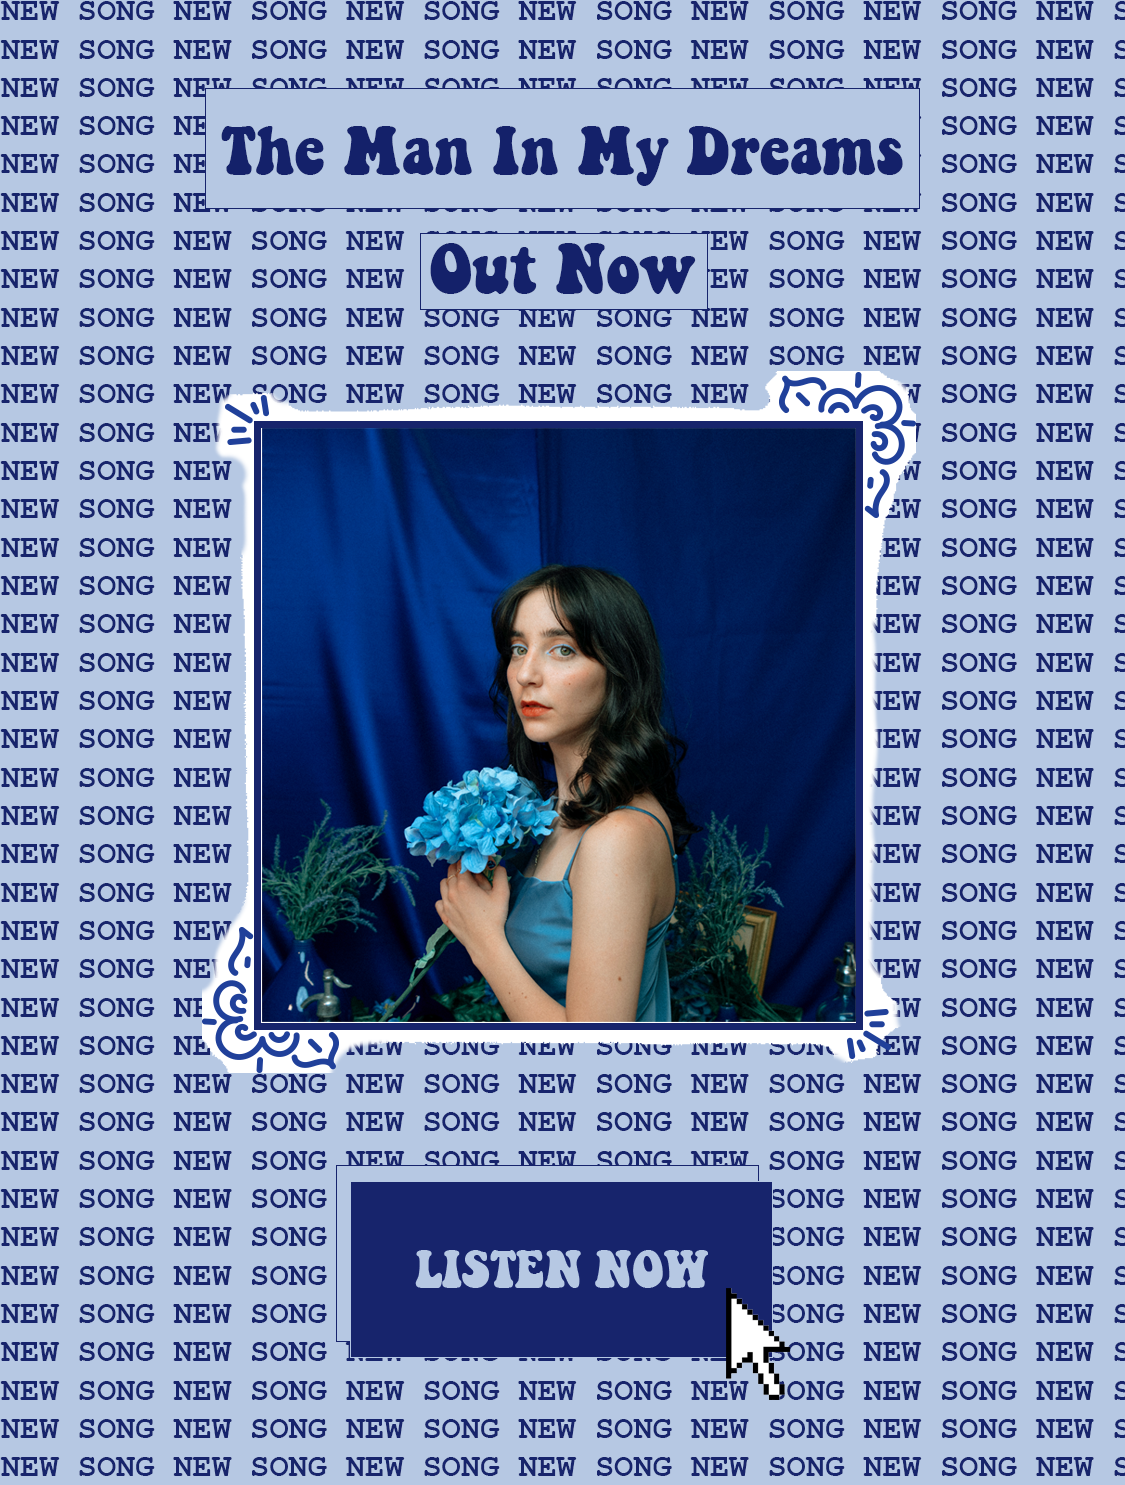
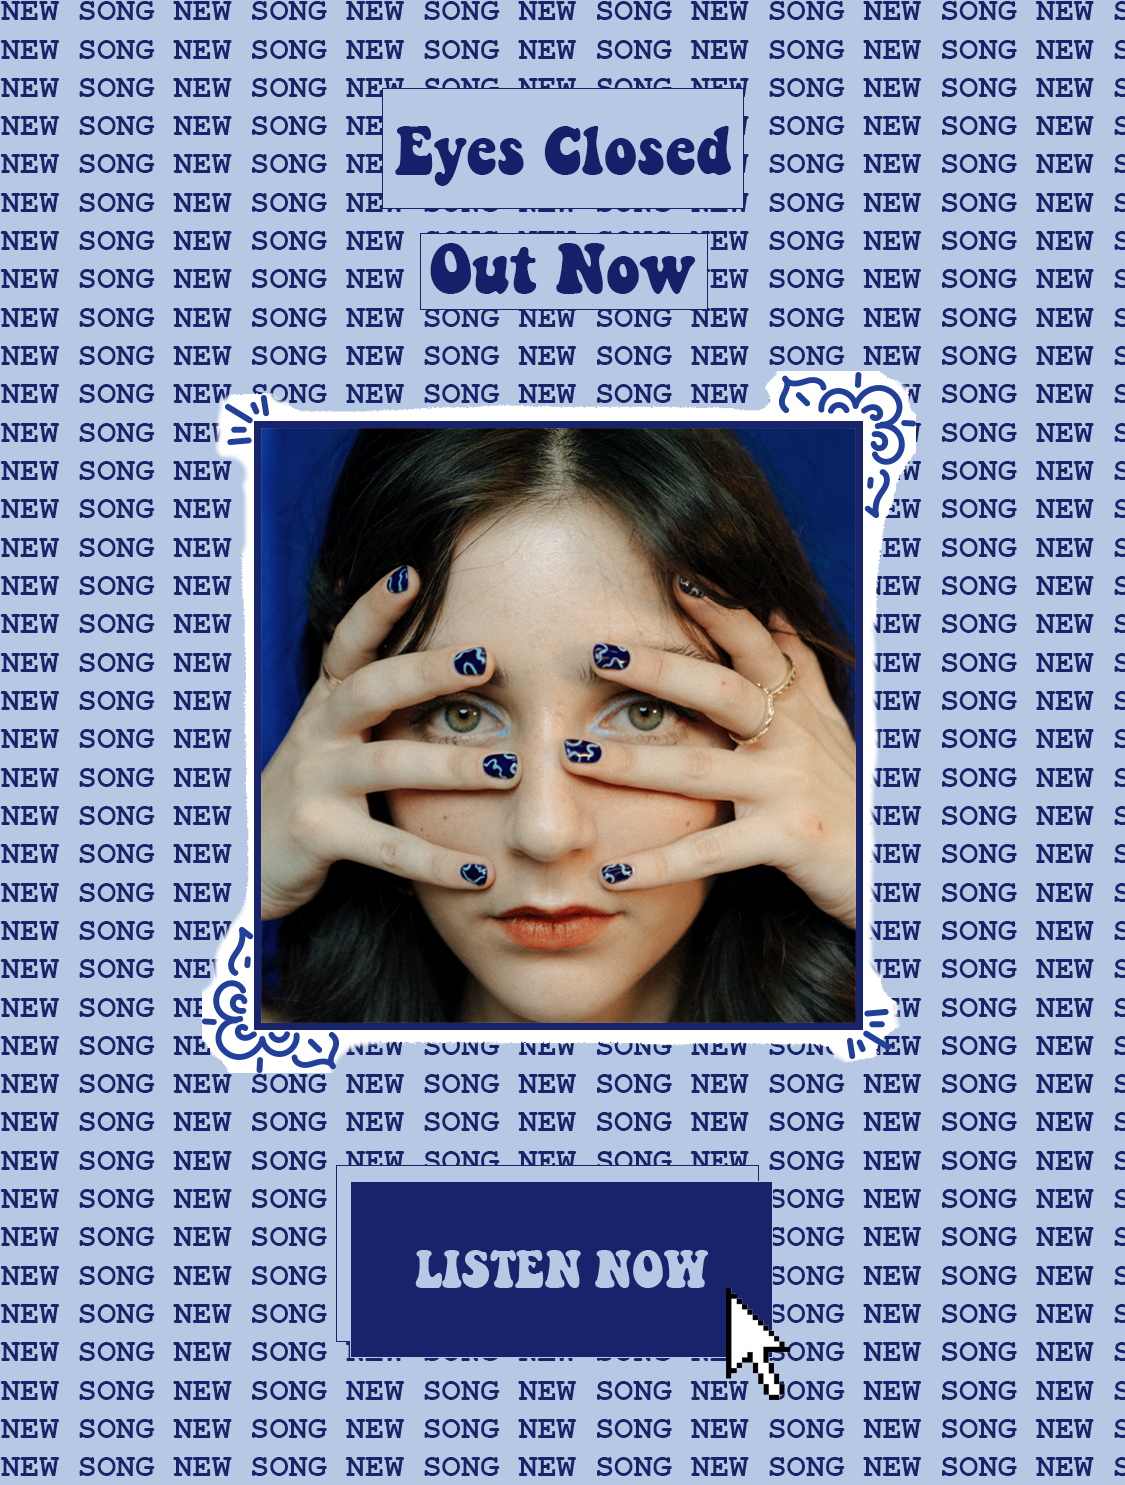
news!

Changed region(s): [[0.2178, 0.2788, 0.7778, 0.7125], [0.1867, 0.062, 0.84, 0.1549], [0.2178, 0.2788, 0.2489, 0.3098]]

diff --git a/src/home/Home.js b/src/home/Home.js
@@ -36,14 +36,14 @@ export default class Home extends Component {
 			<HomeWrap>
 				<HomeTop>
 					<MailingList onClick={this.openModal}>JOIN MY MAILING LIST</MailingList>
-					<Link to="/guess" style={{textDecoration: "none"}}>
+					{/* <Link to="/guess" style={{textDecoration: "none"}}>
 						<MailingList>GUESS ALBUM NAME</MailingList>
-					</Link>
+					</Link> */}
 				</HomeTop>
 				<HomeMiddle>
 					<LettersWrap>
 						<Modal onClose={this.openModal} show={this.state.modal}></Modal>
-						{(this.state.game === true && localStorage.getItem('played') === null) && 
+						{/* {(this.state.game === true && localStorage.getItem('played') === null) && 
 						<GameModalWrap onClick={this.playGame}>
 							<GameModal>
 								<h1>Let's play a game...</h1>
@@ -55,7 +55,7 @@ export default class Home extends Component {
 								</Link>
 								<No onClick={this.playGame}>No, I hate games. Take me to the site.</No>
 							</GameModal>
-						</GameModalWrap>}
+						</GameModalWrap>} */}
 						<Link to="/dates" style={{ textDecoration: 'none' }}>
 							<Letters src={D} alt="D" />
 						</Link>

diff --git a/src/news/News.js b/src/news/News.js
@@ -5,6 +5,8 @@ import slide1 from '../assets/images/SLIDE-1.png';
 import slide2 from '../assets/images/SLIDE-2.png';
 import slide1m from '../assets/images/SLIDE-1-MOBILE.png';
 import slide2m from '../assets/images/SLIDE-2-MOBILE.png';
+import slide3 from '../assets/images/SLIDE-3.png';
+import slide3m from '../assets/images/SLIDE-3-MOBILE.png';
 import Slideshow from '../slideshow';
 import Footer from '../footer';
 import N from '../assets/letters/N.svg';
@@ -13,7 +15,7 @@ import W from '../assets/letters/W-G.svg';
 import S from '../assets/letters/S-G.svg';
 
 
-const images = [{image: slide2, mobile: slide2m, link: 'https://dafna.fanlink.to/TheManInMyDreams'},{image: slide1, mobile: slide1m, link: 'https://shop.dafna.rocks'}];
+const images = [{image: slide3, mobile: slide3m, link: 'https://shop.dafna.rocks/product/when-i-was-with-you-vinyl'},{image: slide1, mobile: slide1m, link: 'https://shop.dafna.rocks/product/8nights-t-shirt'}, {image: slide2, mobile: slide2m, link: 'https://dafna.fanlink.to/EyesClosed'}];
 
 const News = () => {
     return(
